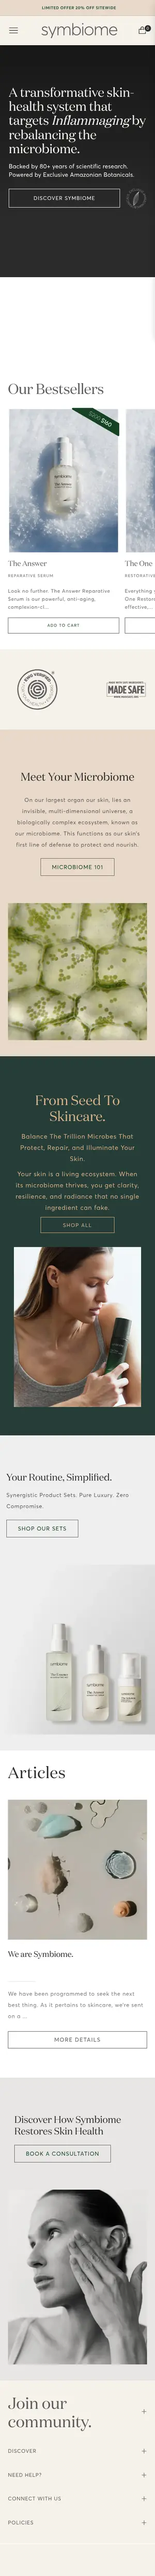
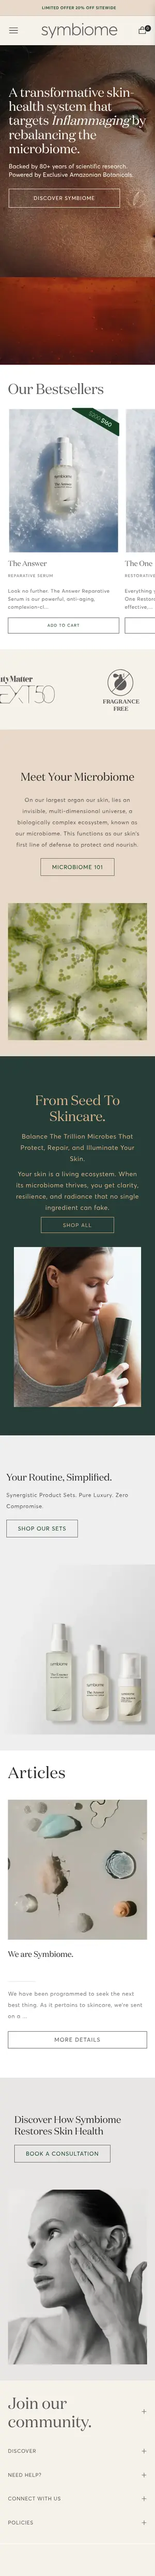
Featured Work: fully loaded Symbiome with live marquee, Medical map, refreshed Hudson Mind

diff --git a/index.html b/index.html
@@ -463,6 +463,15 @@ j=d.createElement(s),dl=l!='dataLayer'?'&l='+l:'';j.async=true;j.src=
   .device-screen:focus-visible{outline:2px solid var(--coral-400); outline-offset:-2px;}
   .device-desktop .device-screen{height:290px;}
 
+  /* Live marquee layered over a screenshot (recreates sites' moving logo bands) */
+  .screen-page{position:relative;}
+  .screen-marquee{position:absolute; left:0; right:0; overflow:hidden; pointer-events:none;}
+  .screen-marquee-track{
+    height:100%; background-repeat:repeat-x; background-size:50% 100%;
+    animation:screenMarquee 30s linear infinite;
+  }
+  @keyframes screenMarquee{from{transform:translateX(0);} to{transform:translateX(-50%);}}
+
   /* Phone: modern smartphone with rounded titanium frame, island and side buttons */
   .device-phone{
     position:absolute; right:1%; bottom:-48px; width:158px;
@@ -824,13 +833,13 @@ height="0" width="0" style="display:none;visibility:hidden"></iframe></noscript>
         <div class="showcase-devices">
           <div class="device-desktop">
             <div class="device-bar"><span></span><span></span><span></span></div>
-            <div class="device-screen" tabindex="0" aria-label="Scrollable preview of the Symbiome website on desktop"><img src="work/symbiome-desktop.webp" alt="Symbiome website on desktop" loading="lazy" decoding="async"></div>
+            <div class="device-screen" tabindex="0" aria-label="Scrollable preview of the Symbiome website on desktop"><div class="screen-page"><img src="work/symbiome-desktop.webp" alt="Symbiome website on desktop" loading="lazy" decoding="async"><div class="screen-marquee" aria-hidden="true" style="top:33.6742%; height:3.0795%;"><div class="screen-marquee-track" style="width:257.2222%; background-image:url(work/symbiome-desktop-marquee.webp);"></div></div></div></div>
           </div>
           <div class="device-phone">
             <span class="phone-btn phone-btn-action"></span><span class="phone-btn phone-btn-vol-up"></span><span class="phone-btn phone-btn-vol-down"></span><span class="phone-btn phone-btn-power"></span>
             <div class="phone-body">
               <div class="phone-island"></div>
-              <div class="device-screen" tabindex="0" aria-label="Scrollable preview of the Symbiome website on mobile"><img src="work/symbiome-mobile.webp" alt="Symbiome website on mobile" loading="lazy" decoding="async"></div>
+              <div class="device-screen" tabindex="0" aria-label="Scrollable preview of the Symbiome website on mobile"><div class="screen-page"><img src="work/symbiome-mobile.webp" alt="Symbiome website on mobile" loading="lazy" decoding="async"><div class="screen-marquee" aria-hidden="true" style="top:25.214%; height:3.1051%;"><div class="screen-marquee-track" style="width:949.7436%; background-image:url(work/symbiome-mobile-marquee.webp);"></div></div></div></div>
               <div class="phone-home"></div>
             </div>
           </div>
